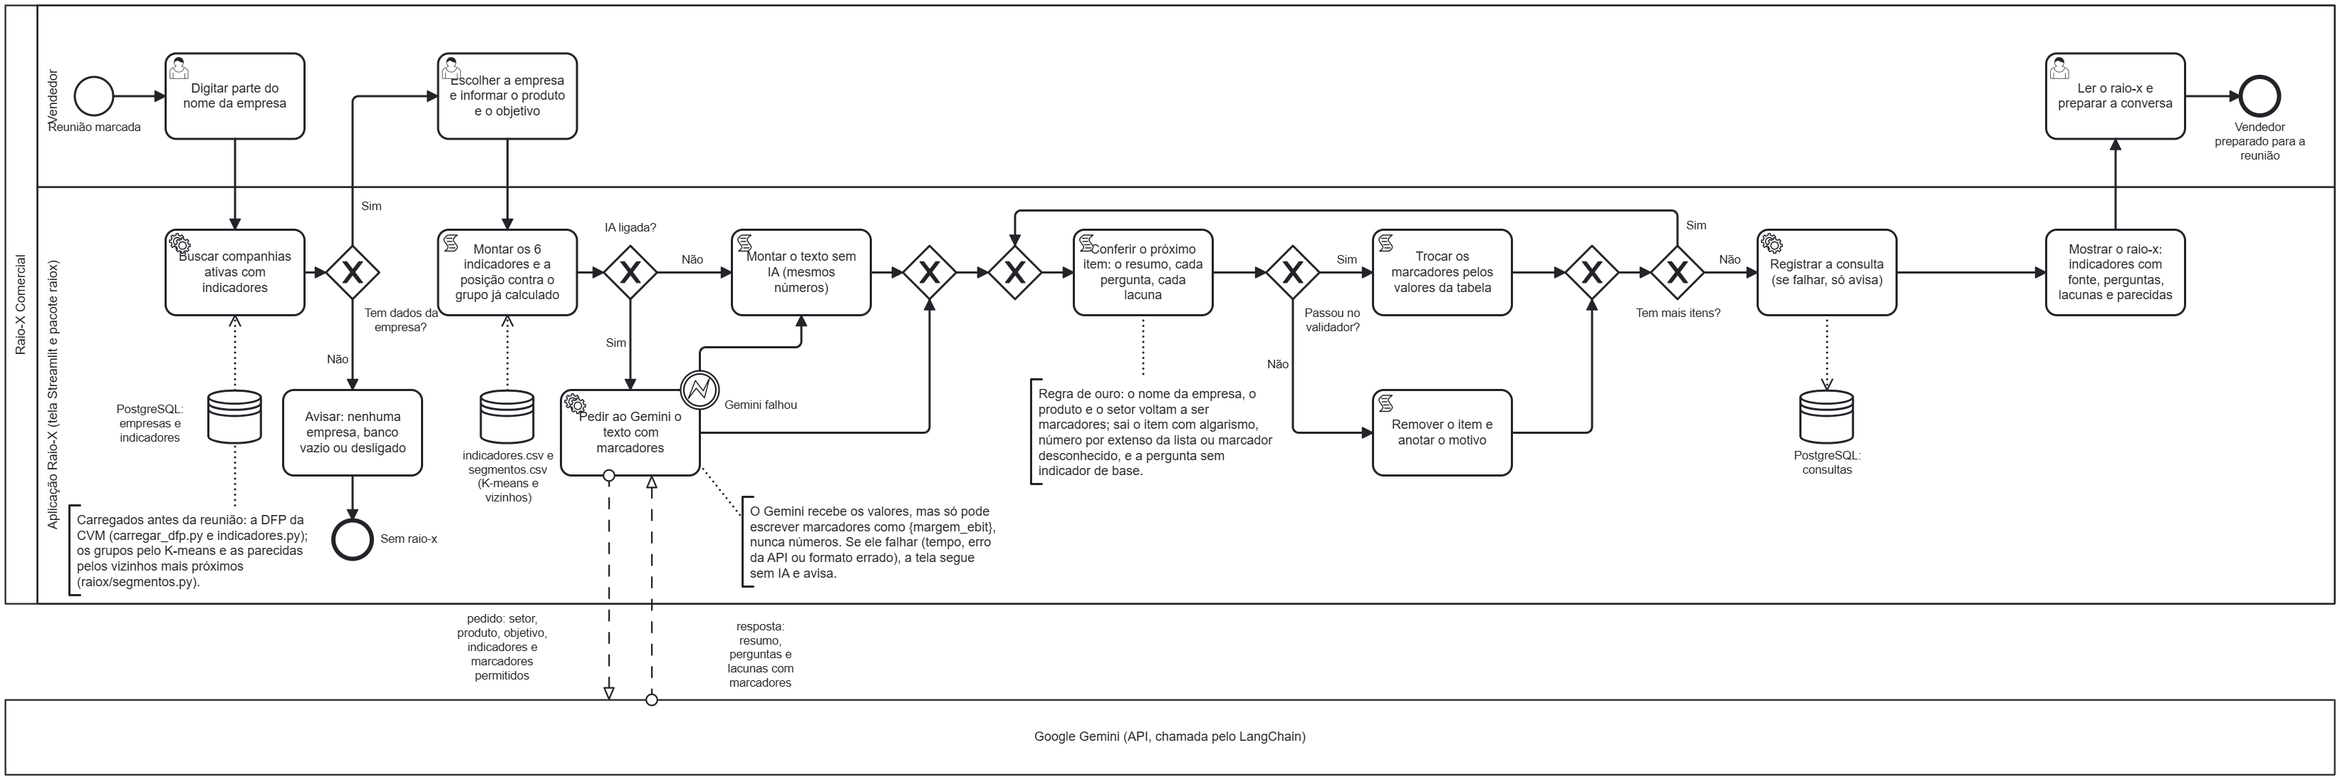
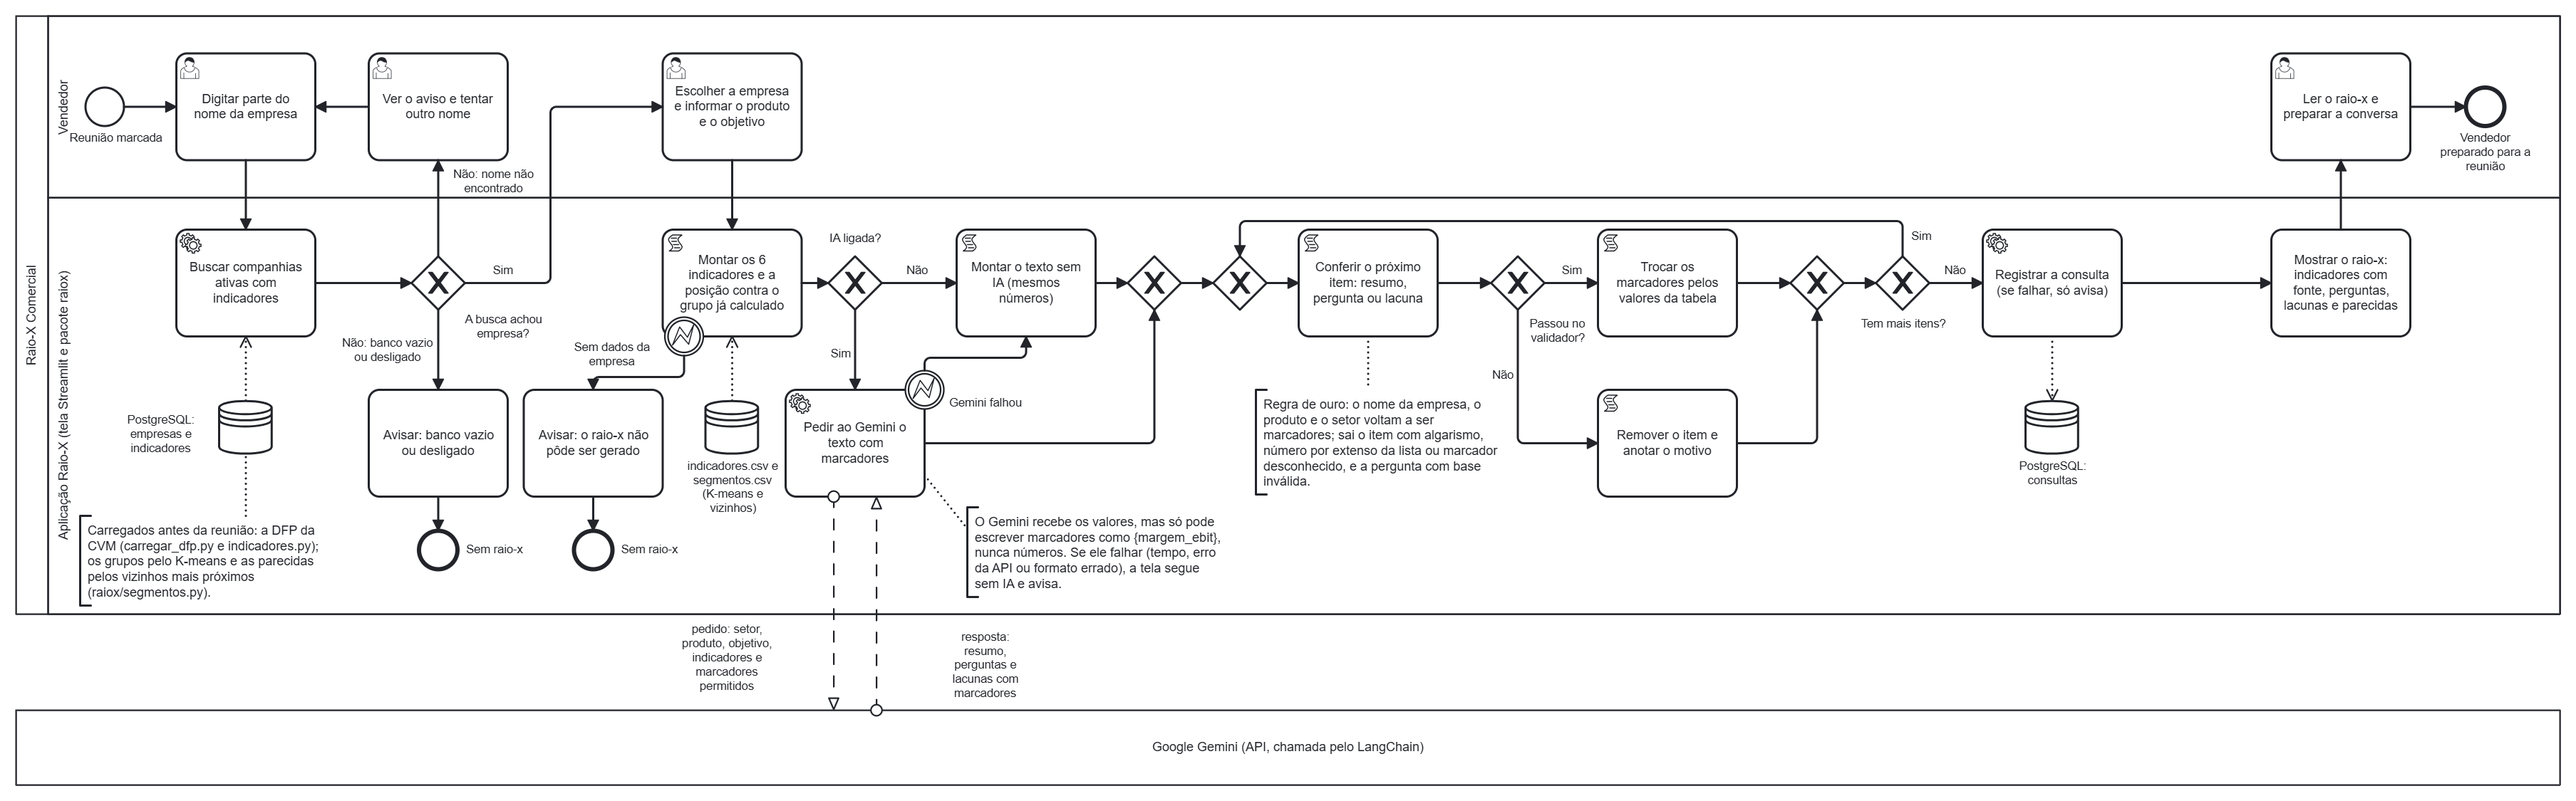
MA5c: BPMN válido no esquema oficial, retorno da busca e falha ao montar o raio-x
BPMN (docs/bpmn/):
- anotações depois dos fluxos: o arquivo passa no esquema BPMN 2.0 da OMG;
- a decisão virou "A busca achou empresa?": nome não encontrado volta para
  o vendedor tentar outro; banco vazio ou desligado encerra sem raio-x;
- evento de erro em "Montar os 6 indicadores": a empresa pode estar no
  PostgreSQL e não na indicadores.csv (app/streamlit_app.py, try do gerar);
- nota do validador: "pergunta com base inválida", como em raiox/ia.py;
- tarefas mais altas e rótulos ajustados: o texto não encosta nos ícones;
- PNG gerado de novo no bpmn-js 17.11.1, com 0 avisos.

docs/documentacao.md: seção 4 igual ao diagrama novo; 28 empresas extremas
em vez de 9 (595 - 567), nas seções 6.2 e 10. O PDF não entra aqui: o
Eduardo gera depois deste PR e do ROI.

Changed region(s): [[0.0, 0.0, 1.0, 1.0], [0.7763, 0.4968, 0.8073, 0.621], [0.3416, 0.59, 0.3726, 0.621]]

diff --git a/docs/documentacao.md b/docs/documentacao.md
@@ -229,9 +229,11 @@ são carregados antes da reunião (anotação à esquerda).*
 O caminho, na ordem do diagrama:
 
 1. o vendedor digita parte do nome; a aplicação busca companhias ativas com indicadores no PostgreSQL;
-2. decisão **"Tem dados da empresa?"**: se não, avisa (nenhuma empresa, banco vazio ou desligado) e o processo acaba sem raio-x;
+2. decisão **"A busca achou empresa?"**: se o nome não foi encontrado, o vendedor vê o aviso e tenta outro nome; se o banco está
+   vazio ou desligado, a aplicação avisa e o processo acaba sem raio-x;
 3. o vendedor escolhe a empresa e informa o produto e o objetivo; a aplicação monta os 6 indicadores e a posição contra o grupo,
-   já calculados (`indicadores.csv` e `segmentos.csv`);
+   já calculados (`indicadores.csv` e `segmentos.csv`); se a empresa não estiver nessa tabela (evento de erro), avisa que o raio-x
+   não pôde ser gerado e o processo acaba;
 4. decisão **"IA ligada?"**: se sim, pede ao Gemini o texto com marcadores; se não, ou se o Gemini falhar (evento de erro: tempo,
    erro da API ou formato errado), monta o texto sem IA, com os mesmos números;
 5. para cada item (resumo, cada pergunta, cada lacuna), decisão **"Passou no validador?"**: se sim, troca os marcadores pelos
@@ -335,7 +337,7 @@ O ML faz **duas coisas diferentes**, com dois algoritmos:
 o grupo mais próximo: 66, 312, 103 e 114. Silhueta dos outros k: 0,265 (k = 3), 0,250 (5), 0,253 (6), 0,217 (7) e 0,219 (8).
 
 **Por que a silhueta de 0,77 enganava.** Antes da regra dos 5%, a silhueta era 0,77 e parecia ótima, mas o modelo só separava
-9 empresas extremas e juntava todas as outras num grupo só: 567 das 595. Com a regra, a silhueta cai para 0,30 (0,286 com os
+28 empresas extremas, em 3 grupos pequenos, e juntava todas as outras num grupo só: 567 das 595. Com a regra, a silhueta cai para 0,30 (0,286 com os
 dados de 05/11) e os grupos passam a servir para comparar. Preferimos grupos úteis a um número bonito.
 
 **O limite: os 10 casos de avaliação caem no mesmo grupo** (issue #60). As 10 empresas da avaliação (seção 8) estão todas no
@@ -581,7 +583,7 @@ recebe) é outro: `avaliacao/regras_prompt.md`.
 
 ## 10. Lições aprendidas
 
-- **Número bonito pode enganar:** a silhueta de 0,77 media só a separação de 9 empresas extremas.
+- **Número bonito pode enganar:** a silhueta de 0,77 media só a separação de 28 empresas extremas.
 - **Teste que passa nem sempre testa:** dois testes passavam com o campo vazio. Passamos a estragar o código de propósito para
   ver o teste falhar.
 - **Teste pulado não é teste que passou:** o CI ficou verde com 17 testes de banco pulados, porque não havia PostgreSQL nele.
